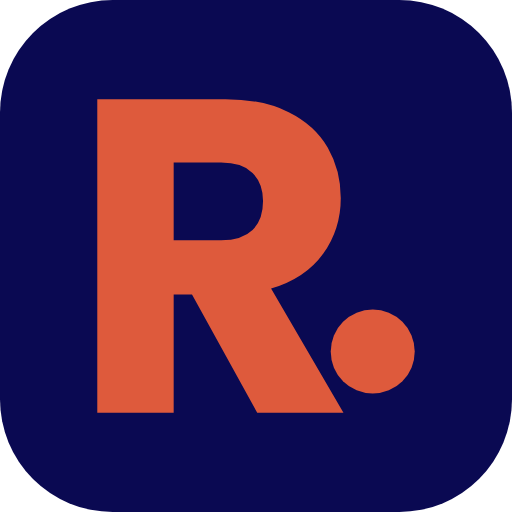
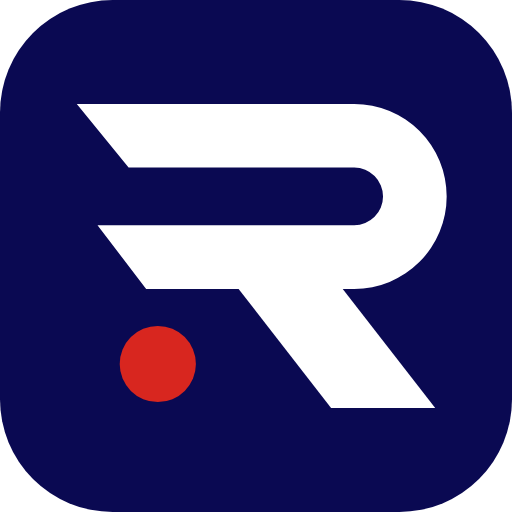
Rebuild the mark from the real brand artwork
The icon set was built from the R glyph in the inherited favicon.svg, which
is not the RESONARE mark. Reconstructed from the supplied logo instead.

The construction I had been missing: the counter is OPEN on the left. There
is no left stem — the top arm and the middle arm are joined only by the bowl's
right-hand curve, and both are cut on the same forward-leaning diagonal. That
open slot is what makes the mark read as motion rather than a plain R.
Measured proportions: arms 17.2 deep on a 100 x 82.2 grid, bowl outer radius
25 / inner 7.8 about (75,25), leg dropping to a flat edge at 82.2, and the
resonance dot floating free at lower-left rather than bottom-right.

- every icon regenerated from it; 16px drops the dot and fills more of the
  tile, maskable art sits at 33.9% radius against Android's 40% limit
- the mark now leads the header, footer, drawer and preloader lockups, with
  the trailing red dot keeping the resonance ping
- brand red set to the logo's #D8261F rather than the UI rust

Verified: all pages load clean, no 404s from a subfolder deploy, and the
mobile audit is still 0 errors / 0 overflows / 0 tap targets under 44px.

The mark is a reconstruction traced by eye — the logo arrived as a pasted
image, not a file. Drop the vector in and I will swap it verbatim.

diff --git a/about.html b/about.html
@@ -45,7 +45,7 @@
 
 <div class="preloader" id="preloader">
   <div class="preloader-inner">
-    <div class="preloader-mark">RESONARE<span class="resonance-mark" aria-hidden="true"><svg viewBox="0 0 40 40"><circle class="rm-ring" cx="20" cy="20" r="5"></circle><circle class="rm-ring" cx="20" cy="20" r="5"></circle><circle class="rm-ring" cx="20" cy="20" r="5"></circle><circle class="rm-dot" cx="20" cy="20" r="4.5"></circle></svg></span></div>
+    <div class="preloader-mark"><svg class="brand-mark" viewBox="0 0 96.9 82.2" aria-hidden="true" focusable="false"><path d="M0 0 L75 0 A25 25 0 0 1 75 50 L18.75 50 L5.6 32.8 L75 32.8 A7.8 7.8 0 0 0 75 17.2 L14 17.2 Z" fill="currentColor"/><path d="M43.75 50 L71.9 50 L96.9 82.2 L68.75 82.2 Z" fill="currentColor"/><circle cx="21.9" cy="70.3" r="10.3" fill="var(--brand-red,#D8261F)"/></svg><span class="brand-word">RESONARE</span><span class="resonance-mark" aria-hidden="true"><svg viewBox="0 0 40 40"><circle class="rm-ring" cx="20" cy="20" r="5"></circle><circle class="rm-ring" cx="20" cy="20" r="5"></circle><circle class="rm-ring" cx="20" cy="20" r="5"></circle><circle class="rm-dot" cx="20" cy="20" r="4.5"></circle></svg></span></div>
     <div class="preloader-status mono" id="preloaderStatus">Initializing</div>
     <div class="preloader-bar"><i id="preloaderBarFill"></i></div>
     <div class="preloader-pct mono" id="preloaderPct">0%</div>
@@ -63,7 +63,7 @@
 </button>
 
 <header class="site-header" id="siteHeader">
-  <a class="brand" href="index.html">RESONARE<span class="resonance-mark" aria-hidden="true"><svg viewBox="0 0 40 40"><circle class="rm-ring" cx="20" cy="20" r="5"></circle><circle class="rm-ring" cx="20" cy="20" r="5"></circle><circle class="rm-ring" cx="20" cy="20" r="5"></circle><circle class="rm-dot" cx="20" cy="20" r="4.5"></circle></svg></span></a>
+  <a class="brand" href="index.html"><svg class="brand-mark" viewBox="0 0 96.9 82.2" aria-hidden="true" focusable="false"><path d="M0 0 L75 0 A25 25 0 0 1 75 50 L18.75 50 L5.6 32.8 L75 32.8 A7.8 7.8 0 0 0 75 17.2 L14 17.2 Z" fill="currentColor"/><path d="M43.75 50 L71.9 50 L96.9 82.2 L68.75 82.2 Z" fill="currentColor"/><circle cx="21.9" cy="70.3" r="10.3" fill="var(--brand-red,#D8261F)"/></svg><span class="brand-word">RESONARE</span><span class="resonance-mark" aria-hidden="true"><svg viewBox="0 0 40 40"><circle class="rm-ring" cx="20" cy="20" r="5"></circle><circle class="rm-ring" cx="20" cy="20" r="5"></circle><circle class="rm-ring" cx="20" cy="20" r="5"></circle><circle class="rm-dot" cx="20" cy="20" r="4.5"></circle></svg></span></a>
   <nav class="main-nav" aria-label="Main navigation">
     <a href="index.html">Home</a>
     <a href="about.html" class="active">About</a>
@@ -83,7 +83,7 @@
 
 <div class="mobile-drawer" id="mobileDrawer">
   <div class="drawer-top">
-    <span class="brand">RESONARE<span class="resonance-mark" aria-hidden="true"><svg viewBox="0 0 40 40"><circle class="rm-ring" cx="20" cy="20" r="5"></circle><circle class="rm-ring" cx="20" cy="20" r="5"></circle><circle class="rm-ring" cx="20" cy="20" r="5"></circle><circle class="rm-dot" cx="20" cy="20" r="4.5"></circle></svg></span></span>
+    <span class="brand"><svg class="brand-mark" viewBox="0 0 96.9 82.2" aria-hidden="true" focusable="false"><path d="M0 0 L75 0 A25 25 0 0 1 75 50 L18.75 50 L5.6 32.8 L75 32.8 A7.8 7.8 0 0 0 75 17.2 L14 17.2 Z" fill="currentColor"/><path d="M43.75 50 L71.9 50 L96.9 82.2 L68.75 82.2 Z" fill="currentColor"/><circle cx="21.9" cy="70.3" r="10.3" fill="var(--brand-red,#D8261F)"/></svg><span class="brand-word">RESONARE</span><span class="resonance-mark" aria-hidden="true"><svg viewBox="0 0 40 40"><circle class="rm-ring" cx="20" cy="20" r="5"></circle><circle class="rm-ring" cx="20" cy="20" r="5"></circle><circle class="rm-ring" cx="20" cy="20" r="5"></circle><circle class="rm-dot" cx="20" cy="20" r="4.5"></circle></svg></span></span>
     <button id="menuClose" aria-label="Close navigation">
       <svg xmlns="http://www.w3.org/2000/svg" width="28" height="28" viewBox="0 0 24 24" fill="none" stroke="currentColor" stroke-width="2" stroke-linecap="round" stroke-linejoin="round"><path d="M18 6 6 18"></path><path d="m6 6 12 12"></path></svg>
     </button>
@@ -286,7 +286,7 @@
 <footer class="site-footer">
   <div class="footer-top">
     <div>
-      <div class="footer-brand">RESONARE<span class="resonance-mark" aria-hidden="true"><svg viewBox="0 0 40 40"><circle class="rm-ring" cx="20" cy="20" r="5"></circle><circle class="rm-ring" cx="20" cy="20" r="5"></circle><circle class="rm-ring" cx="20" cy="20" r="5"></circle><circle class="rm-dot" cx="20" cy="20" r="4.5"></circle></svg></span></div>
+      <div class="footer-brand"><svg class="brand-mark" viewBox="0 0 96.9 82.2" aria-hidden="true" focusable="false"><path d="M0 0 L75 0 A25 25 0 0 1 75 50 L18.75 50 L5.6 32.8 L75 32.8 A7.8 7.8 0 0 0 75 17.2 L14 17.2 Z" fill="currentColor"/><path d="M43.75 50 L71.9 50 L96.9 82.2 L68.75 82.2 Z" fill="currentColor"/><circle cx="21.9" cy="70.3" r="10.3" fill="var(--brand-red,#D8261F)"/></svg><span class="brand-word">RESONARE</span><span class="resonance-mark" aria-hidden="true"><svg viewBox="0 0 40 40"><circle class="rm-ring" cx="20" cy="20" r="5"></circle><circle class="rm-ring" cx="20" cy="20" r="5"></circle><circle class="rm-ring" cx="20" cy="20" r="5"></circle><circle class="rm-dot" cx="20" cy="20" r="4.5"></circle></svg></span></div>
       <p>Digital experiences tuned for ambitious local &amp; trade brands.</p>
     </div>
     <div class="footer-cols">

diff --git a/index.html b/index.html
@@ -44,7 +44,7 @@
 
 <div class="preloader" id="preloader">
   <div class="preloader-inner">
-    <div class="preloader-mark">RESONARE<span class="resonance-mark" aria-hidden="true"><svg viewBox="0 0 40 40"><circle class="rm-ring" cx="20" cy="20" r="5"></circle><circle class="rm-ring" cx="20" cy="20" r="5"></circle><circle class="rm-ring" cx="20" cy="20" r="5"></circle><circle class="rm-dot" cx="20" cy="20" r="4.5"></circle></svg></span></div>
+    <div class="preloader-mark"><svg class="brand-mark" viewBox="0 0 96.9 82.2" aria-hidden="true" focusable="false"><path d="M0 0 L75 0 A25 25 0 0 1 75 50 L18.75 50 L5.6 32.8 L75 32.8 A7.8 7.8 0 0 0 75 17.2 L14 17.2 Z" fill="currentColor"/><path d="M43.75 50 L71.9 50 L96.9 82.2 L68.75 82.2 Z" fill="currentColor"/><circle cx="21.9" cy="70.3" r="10.3" fill="var(--brand-red,#D8261F)"/></svg><span class="brand-word">RESONARE</span><span class="resonance-mark" aria-hidden="true"><svg viewBox="0 0 40 40"><circle class="rm-ring" cx="20" cy="20" r="5"></circle><circle class="rm-ring" cx="20" cy="20" r="5"></circle><circle class="rm-ring" cx="20" cy="20" r="5"></circle><circle class="rm-dot" cx="20" cy="20" r="4.5"></circle></svg></span></div>
     <div class="preloader-status mono" id="preloaderStatus">Initializing</div>
     <div class="preloader-bar"><i id="preloaderBarFill"></i></div>
     <div class="preloader-pct mono" id="preloaderPct">0%</div>
@@ -71,7 +71,7 @@
 </button>
 
 <header class="site-header" id="siteHeader">
-  <a class="brand" href="index.html">RESONARE<span class="resonance-mark" aria-hidden="true"><svg viewBox="0 0 40 40"><circle class="rm-ring" cx="20" cy="20" r="5"></circle><circle class="rm-ring" cx="20" cy="20" r="5"></circle><circle class="rm-ring" cx="20" cy="20" r="5"></circle><circle class="rm-dot" cx="20" cy="20" r="4.5"></circle></svg></span></a>
+  <a class="brand" href="index.html"><svg class="brand-mark" viewBox="0 0 96.9 82.2" aria-hidden="true" focusable="false"><path d="M0 0 L75 0 A25 25 0 0 1 75 50 L18.75 50 L5.6 32.8 L75 32.8 A7.8 7.8 0 0 0 75 17.2 L14 17.2 Z" fill="currentColor"/><path d="M43.75 50 L71.9 50 L96.9 82.2 L68.75 82.2 Z" fill="currentColor"/><circle cx="21.9" cy="70.3" r="10.3" fill="var(--brand-red,#D8261F)"/></svg><span class="brand-word">RESONARE</span><span class="resonance-mark" aria-hidden="true"><svg viewBox="0 0 40 40"><circle class="rm-ring" cx="20" cy="20" r="5"></circle><circle class="rm-ring" cx="20" cy="20" r="5"></circle><circle class="rm-ring" cx="20" cy="20" r="5"></circle><circle class="rm-dot" cx="20" cy="20" r="4.5"></circle></svg></span></a>
   <nav class="main-nav" aria-label="Main navigation">
     <a href="index.html" class="active">Home</a>
     <a href="about.html">About</a>
@@ -91,7 +91,7 @@
 
 <div class="mobile-drawer" id="mobileDrawer">
   <div class="drawer-top">
-    <span class="brand">RESONARE<span class="resonance-mark" aria-hidden="true"><svg viewBox="0 0 40 40"><circle class="rm-ring" cx="20" cy="20" r="5"></circle><circle class="rm-ring" cx="20" cy="20" r="5"></circle><circle class="rm-ring" cx="20" cy="20" r="5"></circle><circle class="rm-dot" cx="20" cy="20" r="4.5"></circle></svg></span></span>
+    <span class="brand"><svg class="brand-mark" viewBox="0 0 96.9 82.2" aria-hidden="true" focusable="false"><path d="M0 0 L75 0 A25 25 0 0 1 75 50 L18.75 50 L5.6 32.8 L75 32.8 A7.8 7.8 0 0 0 75 17.2 L14 17.2 Z" fill="currentColor"/><path d="M43.75 50 L71.9 50 L96.9 82.2 L68.75 82.2 Z" fill="currentColor"/><circle cx="21.9" cy="70.3" r="10.3" fill="var(--brand-red,#D8261F)"/></svg><span class="brand-word">RESONARE</span><span class="resonance-mark" aria-hidden="true"><svg viewBox="0 0 40 40"><circle class="rm-ring" cx="20" cy="20" r="5"></circle><circle class="rm-ring" cx="20" cy="20" r="5"></circle><circle class="rm-ring" cx="20" cy="20" r="5"></circle><circle class="rm-dot" cx="20" cy="20" r="4.5"></circle></svg></span></span>
     <button id="menuClose" aria-label="Close navigation">
       <svg xmlns="http://www.w3.org/2000/svg" width="28" height="28" viewBox="0 0 24 24" fill="none" stroke="currentColor" stroke-width="2" stroke-linecap="round" stroke-linejoin="round"><path d="M18 6 6 18"></path><path d="m6 6 12 12"></path></svg>
     </button>
@@ -418,7 +418,7 @@
 <footer class="site-footer">
   <div class="footer-top">
     <div>
-      <div class="footer-brand">RESONARE<span class="resonance-mark" aria-hidden="true"><svg viewBox="0 0 40 40"><circle class="rm-ring" cx="20" cy="20" r="5"></circle><circle class="rm-ring" cx="20" cy="20" r="5"></circle><circle class="rm-ring" cx="20" cy="20" r="5"></circle><circle class="rm-dot" cx="20" cy="20" r="4.5"></circle></svg></span></div>
+      <div class="footer-brand"><svg class="brand-mark" viewBox="0 0 96.9 82.2" aria-hidden="true" focusable="false"><path d="M0 0 L75 0 A25 25 0 0 1 75 50 L18.75 50 L5.6 32.8 L75 32.8 A7.8 7.8 0 0 0 75 17.2 L14 17.2 Z" fill="currentColor"/><path d="M43.75 50 L71.9 50 L96.9 82.2 L68.75 82.2 Z" fill="currentColor"/><circle cx="21.9" cy="70.3" r="10.3" fill="var(--brand-red,#D8261F)"/></svg><span class="brand-word">RESONARE</span><span class="resonance-mark" aria-hidden="true"><svg viewBox="0 0 40 40"><circle class="rm-ring" cx="20" cy="20" r="5"></circle><circle class="rm-ring" cx="20" cy="20" r="5"></circle><circle class="rm-ring" cx="20" cy="20" r="5"></circle><circle class="rm-dot" cx="20" cy="20" r="4.5"></circle></svg></span></div>
       <p>Digital experiences tuned for ambitious local &amp; trade brands.</p>
     </div>
     <div class="footer-cols">

diff --git a/contact.html b/contact.html
@@ -45,7 +45,7 @@
 
 <div class="preloader" id="preloader">
   <div class="preloader-inner">
-    <div class="preloader-mark">RESONARE<span class="resonance-mark" aria-hidden="true"><svg viewBox="0 0 40 40"><circle class="rm-ring" cx="20" cy="20" r="5"></circle><circle class="rm-ring" cx="20" cy="20" r="5"></circle><circle class="rm-ring" cx="20" cy="20" r="5"></circle><circle class="rm-dot" cx="20" cy="20" r="4.5"></circle></svg></span></div>
+    <div class="preloader-mark"><svg class="brand-mark" viewBox="0 0 96.9 82.2" aria-hidden="true" focusable="false"><path d="M0 0 L75 0 A25 25 0 0 1 75 50 L18.75 50 L5.6 32.8 L75 32.8 A7.8 7.8 0 0 0 75 17.2 L14 17.2 Z" fill="currentColor"/><path d="M43.75 50 L71.9 50 L96.9 82.2 L68.75 82.2 Z" fill="currentColor"/><circle cx="21.9" cy="70.3" r="10.3" fill="var(--brand-red,#D8261F)"/></svg><span class="brand-word">RESONARE</span><span class="resonance-mark" aria-hidden="true"><svg viewBox="0 0 40 40"><circle class="rm-ring" cx="20" cy="20" r="5"></circle><circle class="rm-ring" cx="20" cy="20" r="5"></circle><circle class="rm-ring" cx="20" cy="20" r="5"></circle><circle class="rm-dot" cx="20" cy="20" r="4.5"></circle></svg></span></div>
     <div class="preloader-status mono" id="preloaderStatus">Initializing</div>
     <div class="preloader-bar"><i id="preloaderBarFill"></i></div>
     <div class="preloader-pct mono" id="preloaderPct">0%</div>
@@ -63,7 +63,7 @@
 </button>
 
 <header class="site-header" id="siteHeader">
-  <a class="brand" href="index.html">RESONARE<span class="resonance-mark" aria-hidden="true"><svg viewBox="0 0 40 40"><circle class="rm-ring" cx="20" cy="20" r="5"></circle><circle class="rm-ring" cx="20" cy="20" r="5"></circle><circle class="rm-ring" cx="20" cy="20" r="5"></circle><circle class="rm-dot" cx="20" cy="20" r="4.5"></circle></svg></span></a>
+  <a class="brand" href="index.html"><svg class="brand-mark" viewBox="0 0 96.9 82.2" aria-hidden="true" focusable="false"><path d="M0 0 L75 0 A25 25 0 0 1 75 50 L18.75 50 L5.6 32.8 L75 32.8 A7.8 7.8 0 0 0 75 17.2 L14 17.2 Z" fill="currentColor"/><path d="M43.75 50 L71.9 50 L96.9 82.2 L68.75 82.2 Z" fill="currentColor"/><circle cx="21.9" cy="70.3" r="10.3" fill="var(--brand-red,#D8261F)"/></svg><span class="brand-word">RESONARE</span><span class="resonance-mark" aria-hidden="true"><svg viewBox="0 0 40 40"><circle class="rm-ring" cx="20" cy="20" r="5"></circle><circle class="rm-ring" cx="20" cy="20" r="5"></circle><circle class="rm-ring" cx="20" cy="20" r="5"></circle><circle class="rm-dot" cx="20" cy="20" r="4.5"></circle></svg></span></a>
   <nav class="main-nav" aria-label="Main navigation">
     <a href="index.html">Home</a>
     <a href="about.html">About</a>
@@ -83,7 +83,7 @@
 
 <div class="mobile-drawer" id="mobileDrawer">
   <div class="drawer-top">
-    <span class="brand">RESONARE<span class="resonance-mark" aria-hidden="true"><svg viewBox="0 0 40 40"><circle class="rm-ring" cx="20" cy="20" r="5"></circle><circle class="rm-ring" cx="20" cy="20" r="5"></circle><circle class="rm-ring" cx="20" cy="20" r="5"></circle><circle class="rm-dot" cx="20" cy="20" r="4.5"></circle></svg></span></span>
+    <span class="brand"><svg class="brand-mark" viewBox="0 0 96.9 82.2" aria-hidden="true" focusable="false"><path d="M0 0 L75 0 A25 25 0 0 1 75 50 L18.75 50 L5.6 32.8 L75 32.8 A7.8 7.8 0 0 0 75 17.2 L14 17.2 Z" fill="currentColor"/><path d="M43.75 50 L71.9 50 L96.9 82.2 L68.75 82.2 Z" fill="currentColor"/><circle cx="21.9" cy="70.3" r="10.3" fill="var(--brand-red,#D8261F)"/></svg><span class="brand-word">RESONARE</span><span class="resonance-mark" aria-hidden="true"><svg viewBox="0 0 40 40"><circle class="rm-ring" cx="20" cy="20" r="5"></circle><circle class="rm-ring" cx="20" cy="20" r="5"></circle><circle class="rm-ring" cx="20" cy="20" r="5"></circle><circle class="rm-dot" cx="20" cy="20" r="4.5"></circle></svg></span></span>
     <button id="menuClose" aria-label="Close navigation">
       <svg xmlns="http://www.w3.org/2000/svg" width="28" height="28" viewBox="0 0 24 24" fill="none" stroke="currentColor" stroke-width="2" stroke-linecap="round" stroke-linejoin="round"><path d="M18 6 6 18"></path><path d="m6 6 12 12"></path></svg>
     </button>
@@ -297,7 +297,7 @@
 <footer class="site-footer">
   <div class="footer-top">
     <div>
-      <div class="footer-brand">RESONARE<span class="resonance-mark" aria-hidden="true"><svg viewBox="0 0 40 40"><circle class="rm-ring" cx="20" cy="20" r="5"></circle><circle class="rm-ring" cx="20" cy="20" r="5"></circle><circle class="rm-ring" cx="20" cy="20" r="5"></circle><circle class="rm-dot" cx="20" cy="20" r="4.5"></circle></svg></span></div>
+      <div class="footer-brand"><svg class="brand-mark" viewBox="0 0 96.9 82.2" aria-hidden="true" focusable="false"><path d="M0 0 L75 0 A25 25 0 0 1 75 50 L18.75 50 L5.6 32.8 L75 32.8 A7.8 7.8 0 0 0 75 17.2 L14 17.2 Z" fill="currentColor"/><path d="M43.75 50 L71.9 50 L96.9 82.2 L68.75 82.2 Z" fill="currentColor"/><circle cx="21.9" cy="70.3" r="10.3" fill="var(--brand-red,#D8261F)"/></svg><span class="brand-word">RESONARE</span><span class="resonance-mark" aria-hidden="true"><svg viewBox="0 0 40 40"><circle class="rm-ring" cx="20" cy="20" r="5"></circle><circle class="rm-ring" cx="20" cy="20" r="5"></circle><circle class="rm-ring" cx="20" cy="20" r="5"></circle><circle class="rm-dot" cx="20" cy="20" r="4.5"></circle></svg></span></div>
       <p>Digital experiences tuned for ambitious local &amp; trade brands.</p>
     </div>
     <div class="footer-cols">

diff --git a/services.html b/services.html
@@ -46,7 +46,7 @@
 
 <div class="preloader" id="preloader">
   <div class="preloader-inner">
-    <div class="preloader-mark">RESONARE<span class="resonance-mark" aria-hidden="true"><svg viewBox="0 0 40 40"><circle class="rm-ring" cx="20" cy="20" r="5"></circle><circle class="rm-ring" cx="20" cy="20" r="5"></circle><circle class="rm-ring" cx="20" cy="20" r="5"></circle><circle class="rm-dot" cx="20" cy="20" r="4.5"></circle></svg></span></div>
+    <div class="preloader-mark"><svg class="brand-mark" viewBox="0 0 96.9 82.2" aria-hidden="true" focusable="false"><path d="M0 0 L75 0 A25 25 0 0 1 75 50 L18.75 50 L5.6 32.8 L75 32.8 A7.8 7.8 0 0 0 75 17.2 L14 17.2 Z" fill="currentColor"/><path d="M43.75 50 L71.9 50 L96.9 82.2 L68.75 82.2 Z" fill="currentColor"/><circle cx="21.9" cy="70.3" r="10.3" fill="var(--brand-red,#D8261F)"/></svg><span class="brand-word">RESONARE</span><span class="resonance-mark" aria-hidden="true"><svg viewBox="0 0 40 40"><circle class="rm-ring" cx="20" cy="20" r="5"></circle><circle class="rm-ring" cx="20" cy="20" r="5"></circle><circle class="rm-ring" cx="20" cy="20" r="5"></circle><circle class="rm-dot" cx="20" cy="20" r="4.5"></circle></svg></span></div>
     <div class="preloader-status mono" id="preloaderStatus">Initializing</div>
     <div class="preloader-bar"><i id="preloaderBarFill"></i></div>
     <div class="preloader-pct mono" id="preloaderPct">0%</div>
@@ -64,7 +64,7 @@
 </button>
 
 <header class="site-header" id="siteHeader">
-  <a class="brand" href="index.html">RESONARE<span class="resonance-mark" aria-hidden="true"><svg viewBox="0 0 40 40"><circle class="rm-ring" cx="20" cy="20" r="5"></circle><circle class="rm-ring" cx="20" cy="20" r="5"></circle><circle class="rm-ring" cx="20" cy="20" r="5"></circle><circle class="rm-dot" cx="20" cy="20" r="4.5"></circle></svg></span></a>
+  <a class="brand" href="index.html"><svg class="brand-mark" viewBox="0 0 96.9 82.2" aria-hidden="true" focusable="false"><path d="M0 0 L75 0 A25 25 0 0 1 75 50 L18.75 50 L5.6 32.8 L75 32.8 A7.8 7.8 0 0 0 75 17.2 L14 17.2 Z" fill="currentColor"/><path d="M43.75 50 L71.9 50 L96.9 82.2 L68.75 82.2 Z" fill="currentColor"/><circle cx="21.9" cy="70.3" r="10.3" fill="var(--brand-red,#D8261F)"/></svg><span class="brand-word">RESONARE</span><span class="resonance-mark" aria-hidden="true"><svg viewBox="0 0 40 40"><circle class="rm-ring" cx="20" cy="20" r="5"></circle><circle class="rm-ring" cx="20" cy="20" r="5"></circle><circle class="rm-ring" cx="20" cy="20" r="5"></circle><circle class="rm-dot" cx="20" cy="20" r="4.5"></circle></svg></span></a>
   <nav class="main-nav" aria-label="Main navigation">
     <a href="index.html">Home</a>
     <a href="about.html">About</a>
@@ -84,7 +84,7 @@
 
 <div class="mobile-drawer" id="mobileDrawer">
   <div class="drawer-top">
-    <span class="brand">RESONARE<span class="resonance-mark" aria-hidden="true"><svg viewBox="0 0 40 40"><circle class="rm-ring" cx="20" cy="20" r="5"></circle><circle class="rm-ring" cx="20" cy="20" r="5"></circle><circle class="rm-ring" cx="20" cy="20" r="5"></circle><circle class="rm-dot" cx="20" cy="20" r="4.5"></circle></svg></span></span>
+    <span class="brand"><svg class="brand-mark" viewBox="0 0 96.9 82.2" aria-hidden="true" focusable="false"><path d="M0 0 L75 0 A25 25 0 0 1 75 50 L18.75 50 L5.6 32.8 L75 32.8 A7.8 7.8 0 0 0 75 17.2 L14 17.2 Z" fill="currentColor"/><path d="M43.75 50 L71.9 50 L96.9 82.2 L68.75 82.2 Z" fill="currentColor"/><circle cx="21.9" cy="70.3" r="10.3" fill="var(--brand-red,#D8261F)"/></svg><span class="brand-word">RESONARE</span><span class="resonance-mark" aria-hidden="true"><svg viewBox="0 0 40 40"><circle class="rm-ring" cx="20" cy="20" r="5"></circle><circle class="rm-ring" cx="20" cy="20" r="5"></circle><circle class="rm-ring" cx="20" cy="20" r="5"></circle><circle class="rm-dot" cx="20" cy="20" r="4.5"></circle></svg></span></span>
     <button id="menuClose" aria-label="Close navigation">
       <svg xmlns="http://www.w3.org/2000/svg" width="28" height="28" viewBox="0 0 24 24" fill="none" stroke="currentColor" stroke-width="2" stroke-linecap="round" stroke-linejoin="round"><path d="M18 6 6 18"></path><path d="m6 6 12 12"></path></svg>
     </button>
@@ -253,7 +253,7 @@
 <footer class="site-footer">
   <div class="footer-top">
     <div>
-      <div class="footer-brand">RESONARE<span class="resonance-mark" aria-hidden="true"><svg viewBox="0 0 40 40"><circle class="rm-ring" cx="20" cy="20" r="5"></circle><circle class="rm-ring" cx="20" cy="20" r="5"></circle><circle class="rm-ring" cx="20" cy="20" r="5"></circle><circle class="rm-dot" cx="20" cy="20" r="4.5"></circle></svg></span></div>
+      <div class="footer-brand"><svg class="brand-mark" viewBox="0 0 96.9 82.2" aria-hidden="true" focusable="false"><path d="M0 0 L75 0 A25 25 0 0 1 75 50 L18.75 50 L5.6 32.8 L75 32.8 A7.8 7.8 0 0 0 75 17.2 L14 17.2 Z" fill="currentColor"/><path d="M43.75 50 L71.9 50 L96.9 82.2 L68.75 82.2 Z" fill="currentColor"/><circle cx="21.9" cy="70.3" r="10.3" fill="var(--brand-red,#D8261F)"/></svg><span class="brand-word">RESONARE</span><span class="resonance-mark" aria-hidden="true"><svg viewBox="0 0 40 40"><circle class="rm-ring" cx="20" cy="20" r="5"></circle><circle class="rm-ring" cx="20" cy="20" r="5"></circle><circle class="rm-ring" cx="20" cy="20" r="5"></circle><circle class="rm-dot" cx="20" cy="20" r="4.5"></circle></svg></span></div>
       <p>Digital experiences tuned for ambitious local &amp; trade brands.</p>
     </div>
     <div class="footer-cols">

diff --git a/work.html b/work.html
@@ -45,7 +45,7 @@
 
 <div class="preloader" id="preloader">
   <div class="preloader-inner">
-    <div class="preloader-mark">RESONARE<span class="resonance-mark" aria-hidden="true"><svg viewBox="0 0 40 40"><circle class="rm-ring" cx="20" cy="20" r="5"></circle><circle class="rm-ring" cx="20" cy="20" r="5"></circle><circle class="rm-ring" cx="20" cy="20" r="5"></circle><circle class="rm-dot" cx="20" cy="20" r="4.5"></circle></svg></span></div>
+    <div class="preloader-mark"><svg class="brand-mark" viewBox="0 0 96.9 82.2" aria-hidden="true" focusable="false"><path d="M0 0 L75 0 A25 25 0 0 1 75 50 L18.75 50 L5.6 32.8 L75 32.8 A7.8 7.8 0 0 0 75 17.2 L14 17.2 Z" fill="currentColor"/><path d="M43.75 50 L71.9 50 L96.9 82.2 L68.75 82.2 Z" fill="currentColor"/><circle cx="21.9" cy="70.3" r="10.3" fill="var(--brand-red,#D8261F)"/></svg><span class="brand-word">RESONARE</span><span class="resonance-mark" aria-hidden="true"><svg viewBox="0 0 40 40"><circle class="rm-ring" cx="20" cy="20" r="5"></circle><circle class="rm-ring" cx="20" cy="20" r="5"></circle><circle class="rm-ring" cx="20" cy="20" r="5"></circle><circle class="rm-dot" cx="20" cy="20" r="4.5"></circle></svg></span></div>
     <div class="preloader-status mono" id="preloaderStatus">Initializing</div>
     <div class="preloader-bar"><i id="preloaderBarFill"></i></div>
     <div class="preloader-pct mono" id="preloaderPct">0%</div>
@@ -63,7 +63,7 @@
 </button>
 
 <header class="site-header" id="siteHeader">
-  <a class="brand" href="index.html">RESONARE<span class="resonance-mark" aria-hidden="true"><svg viewBox="0 0 40 40"><circle class="rm-ring" cx="20" cy="20" r="5"></circle><circle class="rm-ring" cx="20" cy="20" r="5"></circle><circle class="rm-ring" cx="20" cy="20" r="5"></circle><circle class="rm-dot" cx="20" cy="20" r="4.5"></circle></svg></span></a>
+  <a class="brand" href="index.html"><svg class="brand-mark" viewBox="0 0 96.9 82.2" aria-hidden="true" focusable="false"><path d="M0 0 L75 0 A25 25 0 0 1 75 50 L18.75 50 L5.6 32.8 L75 32.8 A7.8 7.8 0 0 0 75 17.2 L14 17.2 Z" fill="currentColor"/><path d="M43.75 50 L71.9 50 L96.9 82.2 L68.75 82.2 Z" fill="currentColor"/><circle cx="21.9" cy="70.3" r="10.3" fill="var(--brand-red,#D8261F)"/></svg><span class="brand-word">RESONARE</span><span class="resonance-mark" aria-hidden="true"><svg viewBox="0 0 40 40"><circle class="rm-ring" cx="20" cy="20" r="5"></circle><circle class="rm-ring" cx="20" cy="20" r="5"></circle><circle class="rm-ring" cx="20" cy="20" r="5"></circle><circle class="rm-dot" cx="20" cy="20" r="4.5"></circle></svg></span></a>
   <nav class="main-nav" aria-label="Main navigation">
     <a href="index.html">Home</a>
     <a href="about.html">About</a>
@@ -83,7 +83,7 @@
 
 <div class="mobile-drawer" id="mobileDrawer">
   <div class="drawer-top">
-    <span class="brand">RESONARE<span class="resonance-mark" aria-hidden="true"><svg viewBox="0 0 40 40"><circle class="rm-ring" cx="20" cy="20" r="5"></circle><circle class="rm-ring" cx="20" cy="20" r="5"></circle><circle class="rm-ring" cx="20" cy="20" r="5"></circle><circle class="rm-dot" cx="20" cy="20" r="4.5"></circle></svg></span></span>
+    <span class="brand"><svg class="brand-mark" viewBox="0 0 96.9 82.2" aria-hidden="true" focusable="false"><path d="M0 0 L75 0 A25 25 0 0 1 75 50 L18.75 50 L5.6 32.8 L75 32.8 A7.8 7.8 0 0 0 75 17.2 L14 17.2 Z" fill="currentColor"/><path d="M43.75 50 L71.9 50 L96.9 82.2 L68.75 82.2 Z" fill="currentColor"/><circle cx="21.9" cy="70.3" r="10.3" fill="var(--brand-red,#D8261F)"/></svg><span class="brand-word">RESONARE</span><span class="resonance-mark" aria-hidden="true"><svg viewBox="0 0 40 40"><circle class="rm-ring" cx="20" cy="20" r="5"></circle><circle class="rm-ring" cx="20" cy="20" r="5"></circle><circle class="rm-ring" cx="20" cy="20" r="5"></circle><circle class="rm-dot" cx="20" cy="20" r="4.5"></circle></svg></span></span>
     <button id="menuClose" aria-label="Close navigation">
       <svg xmlns="http://www.w3.org/2000/svg" width="28" height="28" viewBox="0 0 24 24" fill="none" stroke="currentColor" stroke-width="2" stroke-linecap="round" stroke-linejoin="round"><path d="M18 6 6 18"></path><path d="m6 6 12 12"></path></svg>
     </button>
@@ -221,7 +221,7 @@
 <footer class="site-footer">
   <div class="footer-top">
     <div>
-      <div class="footer-brand">RESONARE<span class="resonance-mark" aria-hidden="true"><svg viewBox="0 0 40 40"><circle class="rm-ring" cx="20" cy="20" r="5"></circle><circle class="rm-ring" cx="20" cy="20" r="5"></circle><circle class="rm-ring" cx="20" cy="20" r="5"></circle><circle class="rm-dot" cx="20" cy="20" r="4.5"></circle></svg></span></div>
+      <div class="footer-brand"><svg class="brand-mark" viewBox="0 0 96.9 82.2" aria-hidden="true" focusable="false"><path d="M0 0 L75 0 A25 25 0 0 1 75 50 L18.75 50 L5.6 32.8 L75 32.8 A7.8 7.8 0 0 0 75 17.2 L14 17.2 Z" fill="currentColor"/><path d="M43.75 50 L71.9 50 L96.9 82.2 L68.75 82.2 Z" fill="currentColor"/><circle cx="21.9" cy="70.3" r="10.3" fill="var(--brand-red,#D8261F)"/></svg><span class="brand-word">RESONARE</span><span class="resonance-mark" aria-hidden="true"><svg viewBox="0 0 40 40"><circle class="rm-ring" cx="20" cy="20" r="5"></circle><circle class="rm-ring" cx="20" cy="20" r="5"></circle><circle class="rm-ring" cx="20" cy="20" r="5"></circle><circle class="rm-dot" cx="20" cy="20" r="4.5"></circle></svg></span></div>
       <p>Digital experiences tuned for ambitious local &amp; trade brands.</p>
     </div>
     <div class="footer-cols">

diff --git a/assets/style.css b/assets/style.css
@@ -1902,3 +1902,38 @@ body.nav-open{ position:fixed; width:100%; overflow:hidden; }
 @supports not (height:100svh){
   .hero > .r3d-stage, .page-hero > .r3d-stage{ height:min(100%, 100vh); }
 }
+
+/* ==========================================================================
+   BRAND LOCKUP
+
+   The real RESONARE mark, rebuilt to the artwork: two parallel arms joined
+   only by the bowl's right-hand curve, both cut on the same forward-leaning
+   diagonal, so the counter is open on the left. The trailing red dot keeps
+   the resonance ping — it is the same gesture the logo's dot implies.
+   ========================================================================== */
+:root{ --brand-red:#D8261F; }
+
+.brand, .footer-brand, .preloader-mark{
+  display:inline-flex; align-items:center; gap:.42em;
+}
+.brand-mark{
+  /* The mark carries an open counter and a fine diagonal, so it needs real
+     height to stay legible — below about 24px it collapses into a blob. */
+  height:1.35em; width:auto; display:block; flex-shrink:0;
+  color:#fff;                      /* the R itself; the dot is set on the path */
+}
+.brand-word{ display:inline-block; }
+
+/* The header lockup wants a touch more air between mark and wordmark than the
+   footer, where the type is larger. */
+.brand{ font-size:20px; gap:.46em; }
+.footer-brand .brand-mark{ height:1.25em; }
+.preloader-mark .brand-mark{ height:1.2em; }
+
+/* The trailing dot matches the logo's red rather than the UI rust. */
+.resonance-mark .rm-dot{ fill:var(--brand-red); }
+.resonance-mark .rm-ring{ stroke:var(--brand-red); }
+
+@media(max-width:520px){
+  .brand{ font-size:17px; }
+}
